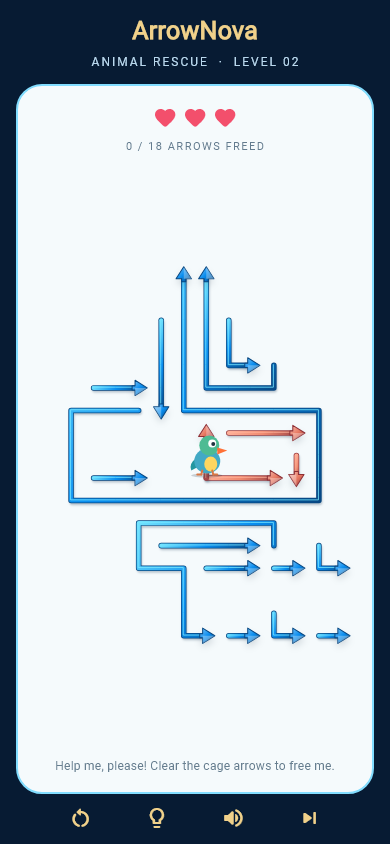
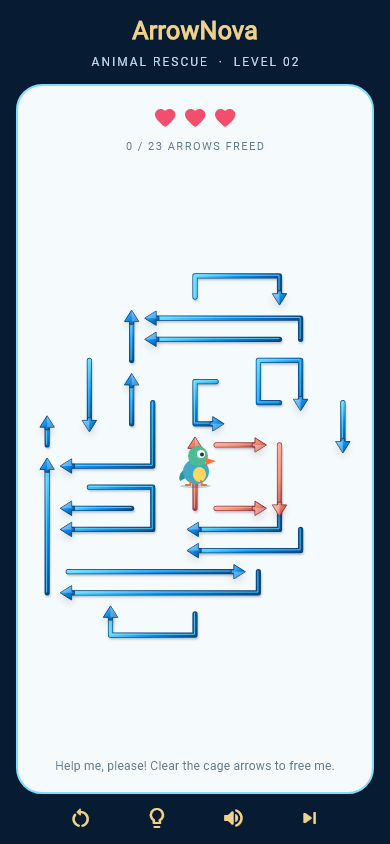
Raise Rescue 2 difficulty above Classic 20 hard

diff --git a/mobile/lib/game/puzzle.dart b/mobile/lib/game/puzzle.dart
@@ -172,37 +172,34 @@ class LevelCatalog {
         ? EndlessCatalog.arrowCount(level)
         : arrowCount(level);
     if (rescue && level == 2) {
-      // Reuse the real Classic 10 circuit board for Rescue 2. The animal's
-      // cage occupies its central pocket, while the surrounding arrows and
-      // their blocker relationships stay recognizable from Classic 10.
-      final classicTen = get(10);
+      // Reuse the real Classic 20 hard board for Rescue 2. Replace the
+      // central crossing arrows with a cage, preserving the surrounding
+      // hard-puzzle layout and its blocker relationships.
+      final classicHard = get(20);
       final paths = <ArrowPath>[];
-      for (final arrow in classicTen.arrows) {
-        if (arrow.id == 2 || arrow.id == 3 || arrow.id == 4) continue;
+      for (final arrow in classicHard.arrows) {
+        if (arrow.id == 1 || arrow.id == 6 || arrow.id == 13 || arrow.id == 19) {
+          continue;
+        }
         paths.add(ArrowPath(paths.length, arrow.cells));
       }
-      // Add two chained blockers to the short clear path and three to the
-      // lower circuit so Rescue 2 is deliberately tougher than Classic 10.
-      paths.add(ArrowPath(paths.length, [Cell(10, 13), Cell(11, 13)]));
-      paths.add(
-        ArrowPath(paths.length, [Cell(12, 12), Cell(12, 13), Cell(13, 13)]),
-      );
-      paths.add(ArrowPath(paths.length, [Cell(8, 16), Cell(9, 16)]));
-      paths.add(
-        ArrowPath(paths.length, [Cell(10, 15), Cell(10, 16), Cell(11, 16)]),
-      );
-      paths.add(ArrowPath(paths.length, [Cell(12, 16), Cell(13, 16)]));
       final cageStart = paths.length;
       paths.addAll([
-        ArrowPath(cageStart, [for (var x = 8; x <= 11; x++) Cell(x, 7)]),
-        ArrowPath(cageStart + 1, [Cell(11, 8), Cell(11, 9)]),
-        ArrowPath(cageStart + 2, [Cell(7, 9), Cell(8, 9), Cell(9, 9), Cell(10, 9)]),
-        ArrowPath(cageStart + 3, [Cell(7, 9), Cell(7, 8), Cell(7, 7)]),
+        ArrowPath(cageStart, [Cell(8, 8), Cell(9, 8), Cell(10, 8)]),
+        ArrowPath(cageStart + 1, [Cell(11, 8), Cell(11, 9), Cell(11, 10), Cell(11, 11)]),
+        ArrowPath(cageStart + 2, [Cell(8, 11), Cell(9, 11), Cell(10, 11)]),
+        ArrowPath(cageStart + 3, [Cell(7, 11), Cell(7, 10), Cell(7, 9), Cell(7, 8)]),
       ]);
+      // One nested exit shaft blocks the long west-pointing routes, with a
+      // second arrow protecting its own exit to add a deeper solve chain.
+      paths.add(
+        ArrowPath(paths.length, [for (var y = 15; y >= 9; y--) Cell(0, y)]),
+      );
+      paths.add(ArrowPath(paths.length, [Cell(0, 8), Cell(0, 7)]));
       return Puzzle(
         level,
-        classicTen.width,
-        classicTen.height,
+        classicHard.width,
+        classicHard.height,
         paths,
         rescueCageIds: {cageStart, cageStart + 1, cageStart + 2, cageStart + 3},
       );

diff --git a/mobile/tool/render_level_approval_screens_test.dart b/mobile/tool/render_level_approval_screens_test.dart
@@ -24,6 +24,7 @@ void main() {
         level,
       );
     }
+    await _capture(tester, 'classic-20-hard.png', 20);
     await _capture(tester, 'classic-blocked-edges.png', 6, blockedDemo: true);
     for (var level = 1; level <= 10; level++) {
       final puzzle = RescueCatalog.get(level);
@@ -35,16 +36,18 @@ void main() {
         rescue: true,
       );
     }
-    final classicTen = LevelCatalog.get(10);
+    final classicHard = LevelCatalog.get(20);
     final rescueTwo = RescueCatalog.get(2);
-    expect(rescueTwo.arrows.length, greaterThan(classicTen.arrows.length));
+    expect(rescueTwo.arrows.length, greaterThan(classicHard.arrows.length));
     expect(
       rescueTwo.dependencyDepth,
-      greaterThan(classicTen.dependencyDepth),
+      greaterThan(classicHard.dependencyDepth),
     );
     expect(
       rescueTwo.arrows.where((arrow) => rescueTwo.canExit(arrow.id, {})).length,
-      lessThan((rescueTwo.arrows.length + 1) ~/ 2),
+      lessThanOrEqualTo(
+        classicHard.arrows.where((arrow) => classicHard.canExit(arrow.id, {})).length,
+      ),
     );
   });
 }
